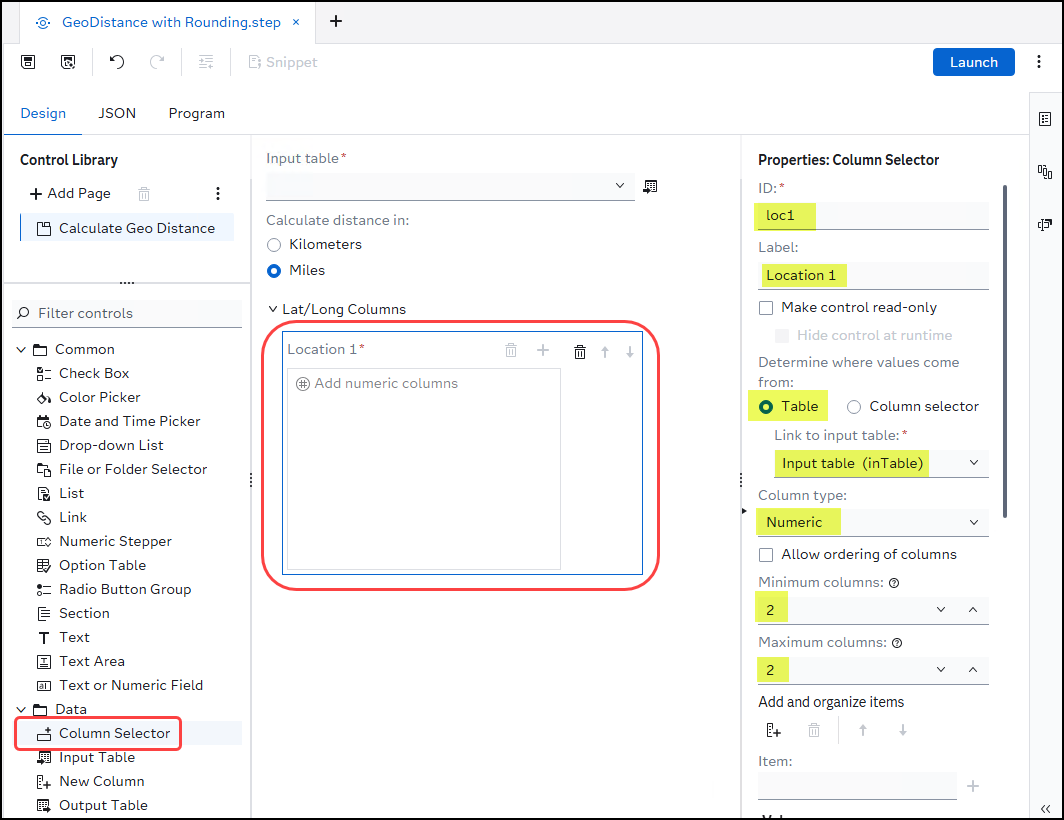
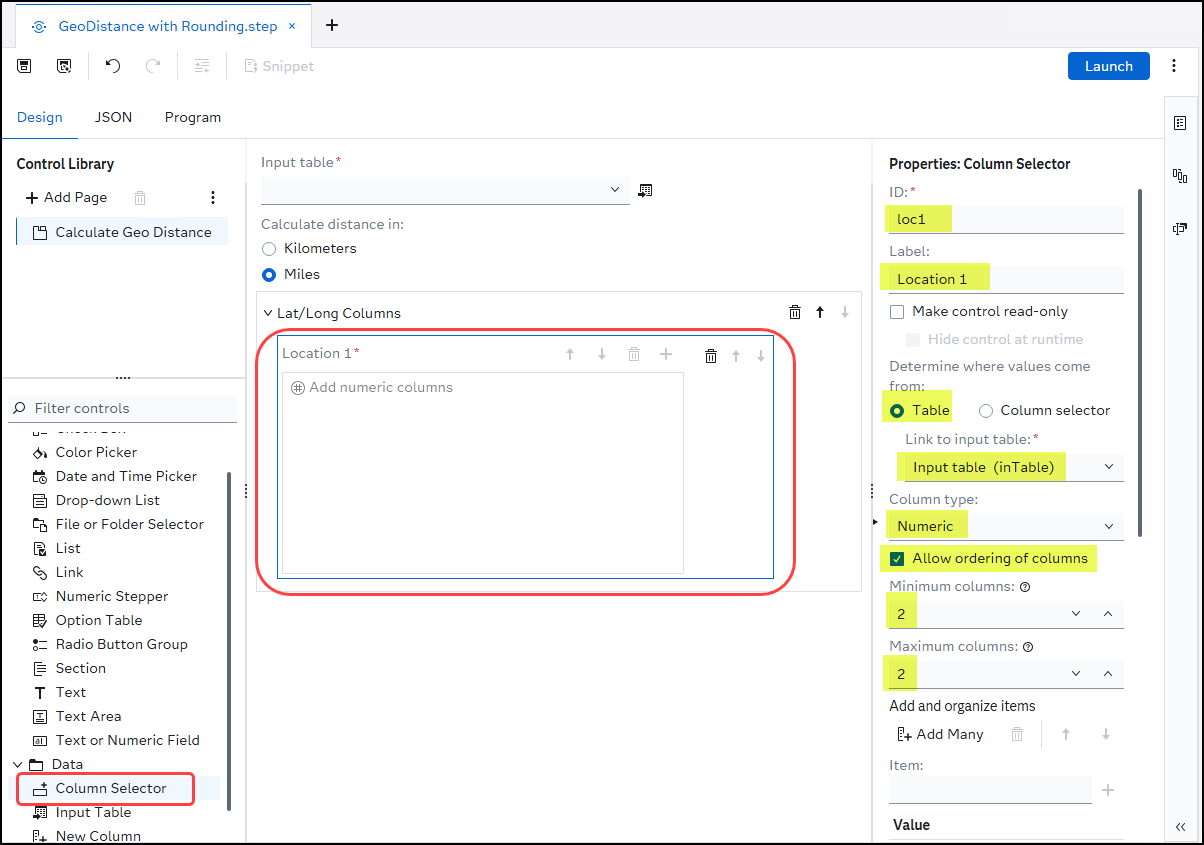
updates

diff --git a/Create_Custom_Step.md b/Create_Custom_Step.md
@@ -103,7 +103,7 @@ Add a **Column Selector** *Data* control to the canvas in the *Lat/Long Columns*
 
 <br>
 
-Add a **New Column** *Data* control to the main canvas.  Enter the properties as depicted below.
+Add a **New Column** *Data* control to the canvas.  Enter the properties as depicted below.
 
 ![New Column Control](images/NewColumnControl.png)
 
@@ -260,7 +260,7 @@ run;
 ## Open and Test the Custom Step in Stand-Alone Mode
 1. Select ![SAS Content](images/SASContentIcon.png) to view the **SAS Content** tab in *SAS Studio*.
 1. Navigate to **SAS Content &#10132; Public**.
-1. Select **GeoDistance with Rounding.step** and right-click to view its menu.
+1. Select **GeoDistance with Rounding.step** and *right-click* to view its menu.
 1. Select **Open** to view the custom step in stand-alone mode.
 
     ![](images/CSOpenStandAlone.png)
@@ -274,6 +274,7 @@ Perform various tests using **MAPS.AFRICA** as the input table.  Use ![Input Tab
 Select columns **X** and **Y** for *Location 1* and columns **LAT** and **LONG** for *Location 2*.
 
 Select **WORK.TEST** as the output table.  Use ![Output Table](images/SelectOutputTable.png) to select the output table.
+ > &#9998; You will need to type the table name of **TEST** since it does not already exist in the **WORK** library.
 
 **Run** the custom step.
 
